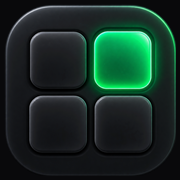
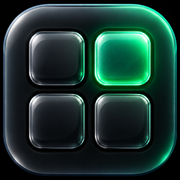
обновление

diff --git a/tests/brand-icons.html b/tests/brand-icons.html
@@ -1,0 +1,65 @@
+<!doctype html>
+<html lang="ru">
+<meta charset="UTF-8">
+<meta name="viewport" content="width=device-width, initial-scale=1">
+<title>DAYRIS — проверка иконок</title>
+<style>
+  * { box-sizing: border-box; }
+  body { margin: 0; padding: 24px; background: #09090b; color: #fafafa; font: 15px system-ui, sans-serif; }
+  main { max-width: 880px; margin: auto; }
+  h1 { font-size: 24px; } h2 { margin-top: 0; font-size: 17px; }
+  section { margin: 16px 0; padding: 24px; border: 1px solid #34343a; border-radius: 24px; }
+  .light { background: #fafafa; color: #18181b; }
+  .row { display: flex; align-items: center; gap: 24px; flex-wrap: wrap; }
+  figure { margin: 0; text-align: center; } figcaption { margin-top: 12px; font-size: 12px; opacity: .7; }
+  .mark { border-radius: 22%; object-fit: contain; }
+  .round { border-radius: 50%; }
+  .squircle { border-radius: 24%; }
+  canvas { width: 120px; height: 120px; }
+  #status { color: #34d399; }
+</style>
+<main>
+  <h1>DAYRIS — новая иконка</h1>
+  <section><h2>В приложении · тёмная тема</h2><div class="row" data-sizes></div></section>
+  <section class="light"><h2>В приложении · светлая тема</h2><div class="row" data-sizes></div></section>
+  <section><h2>Иконки устройства</h2><div class="row">
+    <figure><img class="round" src="/icon-maskable-192.png?v=20260920-polished" width="120" height="120" alt="Android circle"><figcaption>Android · круг</figcaption></figure>
+    <figure><img class="squircle" src="/icon-maskable-192.png?v=20260920-polished" width="120" height="120" alt="Android rounded square"><figcaption>Android · квадрат</figcaption></figure>
+    <figure><img class="squircle" src="/icon-180.png?v=20260920-polished" width="120" height="120" alt="iPhone"><figcaption>iPhone</figcaption></figure>
+    <figure><img src="/icon-512.png?v=20260920-polished" width="120" height="120" alt="Store"><figcaption>Магазин · 512×512</figcaption></figure>
+  </div></section>
+  <section><h2>Экспорт карточек «Поделиться»</h2><div class="row"><canvas id="dark" width="240" height="240"></canvas><canvas id="light" width="240" height="240"></canvas></div><p id="status">Проверка экспорта…</p></section>
+</main>
+<script type="module">
+  import { APP_ICON } from '/src/shared/config/brand.js';
+  import { loadBrandIcon, drawBrandIcon } from '/src/shared/lib/brandIcon.js';
+  for (const row of document.querySelectorAll('[data-sizes]')) {
+    for (const size of [16, 32, 36, 40, 64]) {
+      const figure = document.createElement('figure');
+      const image = new Image(size, size);
+      image.src = size === 16 ? '/icon-16.png?v=20260920-polished' : APP_ICON;
+      image.className = 'mark';
+      image.alt = `${size}px`;
+      const caption = document.createElement('figcaption');
+      caption.textContent = `${size}px`;
+      figure.append(image, caption);
+      row.append(figure);
+    }
+  }
+  try {
+    const icon = await loadBrandIcon();
+    for (const [id, background] of [['dark', '#09090b'], ['light', '#fafafa']]) {
+      const canvas = document.getElementById(id);
+      const ctx = canvas.getContext('2d');
+      ctx.fillStyle = background;
+      ctx.fillRect(0, 0, 240, 240);
+      drawBrandIcon(ctx, icon, 28, 28, 184);
+      const blob = await new Promise(resolve => canvas.toBlob(resolve, 'image/png'));
+      if (!blob?.size) throw new Error('Empty PNG export');
+    }
+    document.getElementById('status').textContent = 'PNG-экспорт обеих тем: OK';
+  } catch (error) {
+    document.getElementById('status').textContent = `Ошибка: ${error.message}`;
+  }
+</script>
+</html>

diff --git a/CalendarScreen.jsx b/CalendarScreen.jsx
@@ -80,6 +80,7 @@ import CtraderControl from './src/features/ctrader/CtraderControl';
 import { createQrMatrix, drawQrToCanvas } from './qrCode.js';
 import { useReferral } from './src/features/referrals/useReferral.js';
 import { useProAccess } from './src/features/pro/useProAccess.js';
+import { loadBrandIcon, drawBrandIcon } from './src/shared/lib/brandIcon.js';
 
 export default function CalendarScreen() {
   const [today, setToday] = useState(() => new Date());
@@ -2259,7 +2260,8 @@ export default function CalendarScreen() {
     return `${dayMonthYear.format(from)} — ${dayMonthYear.format(to)}`;
   }
 
-  function createReferralShareBlob() {
+  async function createReferralShareBlob() {
+    const brandIcon = await loadBrandIcon();
     return new Promise((resolve, reject) => {
       try {
         if (!referralCode) throw new Error('REFERRAL_CODE_MISSING');
@@ -2303,23 +2305,7 @@ export default function CalendarScreen() {
         ctx.fillStyle = glow;
         ctx.fillRect(460, 0, 620, 560);
 
-        // Brand mark.
-        roundedCanvasRect(ctx, 72, 72, 92, 92, 24);
-        ctx.fillStyle = dark ? '#13151a' : '#ffffff';
-        ctx.fill();
-        ctx.strokeStyle = dark ? '#3a3219' : '#eadba8';
-        ctx.lineWidth = 3;
-        ctx.stroke();
-
-        const tile = 29;
-        const gap = 8;
-        const startX = 84;
-        const startY = 84;
-        [[0, 0], [1, 0], [0, 1], [1, 1]].forEach(([cx, cy], index) => {
-          roundedCanvasRect(ctx, startX + cx * (tile + gap), startY + cy * (tile + gap), tile, tile, 8);
-          ctx.fillStyle = index === 1 ? green : (dark ? '#25282f' : '#e7eaee');
-          ctx.fill();
-        });
+        drawBrandIcon(ctx, brandIcon, 72, 72, 92);
 
         ctx.fillStyle = textMain;
         ctx.font = '700 40px -apple-system, BlinkMacSystemFont, "Segoe UI", Arial, sans-serif';
@@ -2512,7 +2498,8 @@ export default function CalendarScreen() {
     }
   }
 
-  function createHistoryShareBlob() {
+  async function createHistoryShareBlob() {
+    const brandIcon = await loadBrandIcon();
     return new Promise((resolve, reject) => {
       try {
         const canvas = document.createElement('canvas');
@@ -2564,19 +2551,7 @@ export default function CalendarScreen() {
         ctx.fillStyle = glow;
         ctx.fillRect(500, 0, 580, 500);
 
-        // Brand mark.
-        roundedCanvasRect(ctx, 72, 72, 86, 86, 23);
-        ctx.fillStyle = dark ? '#14171b' : '#ffffff';
-        ctx.fill();
-        ctx.strokeStyle = dark ? '#3b331a' : '#eadba8';
-        ctx.lineWidth = 3;
-        ctx.stroke();
-        const tile = 27, gap = 7, startX = 84, startY = 84;
-        [[0,0],[1,0],[0,1],[1,1]].forEach(([cx, cy], idx) => {
-          roundedCanvasRect(ctx, startX + cx*(tile+gap), startY + cy*(tile+gap), tile, tile, 7);
-          ctx.fillStyle = idx === 1 ? green : dark ? '#262a31' : '#e8ebef';
-          ctx.fill();
-        });
+        drawBrandIcon(ctx, brandIcon, 72, 72, 86);
 
         ctx.fillStyle = textMain;
         ctx.font = '750 39px -apple-system, BlinkMacSystemFont, "Segoe UI", Arial, sans-serif';

diff --git a/src/features/onboarding/FirstRunSetup.jsx b/src/features/onboarding/FirstRunSetup.jsx
@@ -1,6 +1,7 @@
 import React, { useEffect, useRef } from 'react';
 import { ArrowLeft, ArrowRight, Check, Sun, Moon, TrendingUp, Coffee, Wallet } from 'lucide-react';
 import { CURRENCIES } from '../../shared/config/constants';
+import BrandIcon from '../../shared/ui/BrandIcon.jsx';
 
 const COPY = {
   ru: {
@@ -63,7 +64,7 @@ export default function FirstRunSetup({ step, language, currency, theme, onLangu
         <div className={`grid w-full max-w-[940px] overflow-hidden rounded-[28px] border shadow-2xl md:grid-cols-[0.85fr_1.15fr] ${light ? 'border-white bg-[#faf9f6]' : 'border-white/10 bg-[#111214]'}`}>
           <div className="relative hidden flex-col justify-between overflow-hidden border-r border-white/10 bg-[#171811] p-9 text-white md:flex">
             <div className="pointer-events-none absolute -left-24 -top-32 h-96 w-96 rounded-full bg-amber-400/10 blur-3xl" />
-            <div className="relative flex items-center gap-3"><img src="/icon-180.png" alt="" className="h-9 w-9 rounded-xl" /><span className="text-sm font-semibold tracking-[0.16em]">DAYRIS</span></div>
+            <div className="relative flex items-center gap-3"><BrandIcon className="h-10 w-10" /><span className="text-sm font-semibold tracking-[0.16em]">DAYRIS</span></div>
             <div className="relative py-12">
               <h2 className="whitespace-pre-line text-[38px] font-semibold leading-[1.12] tracking-[-0.045em]">{copy.tagline}</h2>
               <div className="mt-8 grid grid-cols-7 gap-1.5" aria-hidden="true">
@@ -74,7 +75,7 @@ export default function FirstRunSetup({ step, language, currency, theme, onLangu
           </div>
 
           <div className="flex min-w-0 flex-col p-5 sm:p-9">
-            <div className="mb-7 flex items-center gap-2 md:hidden"><img src="/icon-180.png" alt="" className="h-7 w-7 rounded-lg" /><span className="text-xs font-semibold tracking-[0.16em]">DAYRIS</span></div>
+            <div className="mb-7 flex items-center gap-2 md:hidden"><BrandIcon className="h-8 w-8" /><span className="text-xs font-semibold tracking-[0.16em]">DAYRIS</span></div>
             <nav aria-label={copy.steps.join(' / ')} className="mb-8 flex gap-2">
               {copy.steps.map((label, item) => <div key={label} aria-current={item === index ? 'step' : undefined} className="min-w-0 flex-1">
                 <div className={`mb-2 h-1 rounded-full ${item <= index ? 'bg-amber-400' : light ? 'bg-zinc-200' : 'bg-white/10'}`} />

diff --git a/InstallPage.jsx b/InstallPage.jsx
@@ -1,4 +1,5 @@
 import React, { useEffect, useMemo, useState } from 'react';
+import BrandIcon from './src/shared/ui/BrandIcon.jsx';
 import {
   ArrowRight,
   CheckCircle2,
@@ -97,19 +98,6 @@ const COPY = {
   },
 };
 
-function BrandMark({ isLight }) {
-  return (
-    <div className={`grid h-16 w-16 grid-cols-2 gap-1 rounded-[20px] border p-2 shadow-xl ${
-      isLight ? 'border-amber-200 bg-white shadow-amber-200/30' : 'border-amber-400/20 bg-zinc-950 shadow-black/40'
-    }`}>
-      <span className={`rounded-md ${isLight ? 'bg-zinc-200' : 'bg-zinc-800'}`} />
-      <span className="rounded-md bg-emerald-500 shadow-[0_0_16px_rgba(16,185,129,.45)]" />
-      <span className={`rounded-md ${isLight ? 'bg-zinc-200' : 'bg-zinc-800'}`} />
-      <span className={`rounded-md ${isLight ? 'bg-zinc-200' : 'bg-zinc-800'}`} />
-    </div>
-  );
-}
-
 export default function InstallPage() {
   const lang = useMemo(getLang, []);
   const copy = COPY[lang];
@@ -181,7 +169,7 @@ export default function InstallPage() {
         <section className={`w-full overflow-hidden rounded-[30px] border backdrop-blur-xl ${cardClass}`}>
           <div className="px-5 pb-5 pt-6 sm:px-8 sm:pb-7 sm:pt-8">
             <div className="flex items-center gap-4">
-              <BrandMark isLight={isLight} />
+              <BrandIcon className="h-16 w-16" />
               <div className="min-w-0">
                 <p className="font-mono text-[10px] font-bold uppercase tracking-[0.22em] text-amber-500">{copy.eyebrow}</p>
                 <p className={`mt-1 text-sm font-semibold ${isLight ? 'text-zinc-500' : 'text-zinc-400'}`}>DAYRIS</p>

diff --git a/src/InstallPage.jsx b/src/InstallPage.jsx
@@ -1,4 +1,5 @@
 import React, { useEffect, useMemo, useState } from 'react';
+import BrandIcon from './shared/ui/BrandIcon.jsx';
 import {
   ArrowRight,
   CheckCircle2,
@@ -97,19 +98,6 @@ const COPY = {
   },
 };
 
-function BrandMark({ isLight }) {
-  return (
-    <div className={`grid h-16 w-16 grid-cols-2 gap-1 rounded-[20px] border p-2 shadow-xl ${
-      isLight ? 'border-amber-200 bg-white shadow-amber-200/30' : 'border-amber-400/20 bg-zinc-950 shadow-black/40'
-    }`}>
-      <span className={`rounded-md ${isLight ? 'bg-zinc-200' : 'bg-zinc-800'}`} />
-      <span className="rounded-md bg-emerald-500 shadow-[0_0_16px_rgba(16,185,129,.45)]" />
-      <span className={`rounded-md ${isLight ? 'bg-zinc-200' : 'bg-zinc-800'}`} />
-      <span className={`rounded-md ${isLight ? 'bg-zinc-200' : 'bg-zinc-800'}`} />
-    </div>
-  );
-}
-
 export default function InstallPage() {
   const lang = useMemo(getLang, []);
   const copy = COPY[lang];
@@ -181,7 +169,7 @@ export default function InstallPage() {
         <section className={`w-full overflow-hidden rounded-[30px] border backdrop-blur-xl ${cardClass}`}>
           <div className="px-5 pb-5 pt-6 sm:px-8 sm:pb-7 sm:pt-8">
             <div className="flex items-center gap-4">
-              <BrandMark isLight={isLight} />
+              <BrandIcon className="h-16 w-16" />
               <div className="min-w-0">
                 <p className="font-mono text-[10px] font-bold uppercase tracking-[0.22em] text-amber-500">{copy.eyebrow}</p>
                 <p className={`mt-1 text-sm font-semibold ${isLight ? 'text-zinc-500' : 'text-zinc-400'}`}>DAYRIS</p>

diff --git a/src/shared/lib/brandIcon.js b/src/shared/lib/brandIcon.js
@@ -1,0 +1,36 @@
+import { APP_SHARE_ICON } from '../config/brand.js';
+
+let imagePromise;
+
+export function loadBrandIcon() {
+  if (!imagePromise) {
+    imagePromise = new Promise((resolve, reject) => {
+      const image = new Image();
+      const timeout = setTimeout(() => fail(), 10000);
+      function fail() {
+        clearTimeout(timeout);
+        image.onload = image.onerror = null;
+        reject(new Error('BRAND_ICON_LOAD_FAILED'));
+      }
+      image.onload = () => {
+        clearTimeout(timeout);
+        resolve(image);
+      };
+      image.onerror = fail;
+      image.src = APP_SHARE_ICON;
+    }).catch((error) => {
+      imagePromise = undefined;
+      throw error;
+    });
+  }
+  return imagePromise;
+}
+
+export function drawBrandIcon(ctx, image, x, y, size) {
+  ctx.save();
+  ctx.beginPath();
+  ctx.roundRect(x, y, size, size, size * 0.22);
+  ctx.clip();
+  ctx.drawImage(image, x, y, size, size);
+  ctx.restore();
+}

diff --git a/Header.jsx b/Header.jsx
@@ -5,6 +5,7 @@ import {
 } from 'lucide-react';
 import { LANGUAGES, CURRENCIES } from './src/shared/config/constants';
 import { monthsFor } from './src/shared/i18n';
+import BrandIcon from './src/shared/ui/BrandIcon.jsx';
 
 export default function Header({
   isLight, traderMode, t, theme, setTheme, settingsRef, settingsOpen,
@@ -30,10 +31,9 @@ export default function Header({
       <div className="flex items-center justify-between gap-2 mb-3">
         <div className="flex items-center gap-2.5 min-w-0">
           <div className="relative shrink-0 flex items-center justify-center">
-            <img
-              src="/icon-180.png"
+            <BrandIcon
               alt={t('appName')}
-              className="h-8 w-8 sm:h-9 sm:w-9 rounded-xl shadow-md border border-amber-400/30 object-cover"
+              className="h-9 w-9 sm:h-10 sm:w-10"
             />
           </div>
           <div className="min-w-0">

diff --git a/index.html b/index.html
@@ -6,8 +6,10 @@
 
     <!-- PWA Настройки и Иконки -->
     <link rel="manifest" href="/manifest.json" />
-    <link rel="apple-touch-icon" href="/icon-180.png" />
-    <link rel="icon" href="/icon-32.png" />
+    <link rel="apple-touch-icon" sizes="180x180" href="/icon-180.png?v=20260920-polished" />
+    <link rel="icon" type="image/png" sizes="16x16" href="/icon-16.png?v=20260920-polished" />
+    <link rel="icon" type="image/png" sizes="32x32" href="/icon-32.png?v=20260920-polished" />
+    <link rel="icon" type="image/png" sizes="48x48" href="/icon-48.png?v=20260920-polished" />
     <meta name="theme-color" content="#09090b" />
     <meta name="mobile-web-app-capable" content="yes" />
     <meta name="apple-mobile-web-app-capable" content="yes" />

diff --git a/public/sw.js b/public/sw.js
@@ -1,12 +1,17 @@
-const CACHE_NAME = 'atj-cache-v5';
+const CACHE_NAME = 'atj-cache-v6-polished-icon';
 
 const PRECACHE_ASSETS = [
   '/',
   '/index.html',
   '/manifest.json',
-  '/icon-180.png',
-  '/icon-192.png',
-  '/icon-32.png'
+  '/icon-16.png?v=20260920-polished',
+  '/icon-32.png?v=20260920-polished',
+  '/icon-48.png?v=20260920-polished',
+  '/icon-180.png?v=20260920-polished',
+  '/icon-192.png?v=20260920-polished',
+  '/icon-512.png?v=20260920-polished',
+  '/icon-maskable-192.png?v=20260920-polished',
+  '/icon-maskable-512.png?v=20260920-polished'
 ];
 
 self.addEventListener('install', (event) => {

diff --git a/src/shared/config/brand.js b/src/shared/config/brand.js
@@ -2,3 +2,5 @@ export const APP_NAME = 'DAYRIS';
 export const APP_TITLE = 'DAYRIS — Денежный календарь';
 export const PRO_PLAN_NAME = 'DAYRIS PRO';
 export const APP_SLOGAN = 'Каждый день имеет значение.';
+export const APP_ICON = '/icon-192.png?v=20260920-polished';
+export const APP_SHARE_ICON = '/icon-512.png?v=20260920-polished';

diff --git a/src/shared/ui/BrandIcon.jsx b/src/shared/ui/BrandIcon.jsx
@@ -1,0 +1,15 @@
+import React from 'react';
+import { APP_ICON } from '../config/brand.js';
+
+export default function BrandIcon({ className = '', alt = '' }) {
+  return (
+    <img
+      src={APP_ICON}
+      alt={alt}
+      width={192}
+      height={192}
+      draggable={false}
+      className={`shrink-0 rounded-[22%] object-contain ${className}`}
+    />
+  );
+}

diff --git a/assets/brand/README.md b/assets/brand/README.md
@@ -1,0 +1,9 @@
+# DAYRIS icon
+
+`dayris-source.png` is the unchanged, approved 1254 × 1254 source supplied on 2026-09-20.
+
+Run `./scripts/build-icons.ps1` in PowerShell to reproduce the PNG exports. The crop removes excess black margins only; the artwork is not regenerated. UI and favicon exports use the full cropped square. Android maskable exports inset that square to 72% on opaque black so the polished tile survives circular masks. UI and share cards round only the image's outer black corners at 22%.
+
+`dayris-play-store-512.png` is the 512 × 512 store-listing asset. Upload it when preparing the Google Play listing. This repository has no native Android launcher resources; any separately generated Android package must be rebuilt with the updated icons.
+
+The manifest, HTML, UI and service-worker precache reference the same `20260920-polished` revision. Bump that revision and the service-worker cache when replacing the artwork again. Existing Home Screen installations may need OS refresh or reinstallation after deployment.
